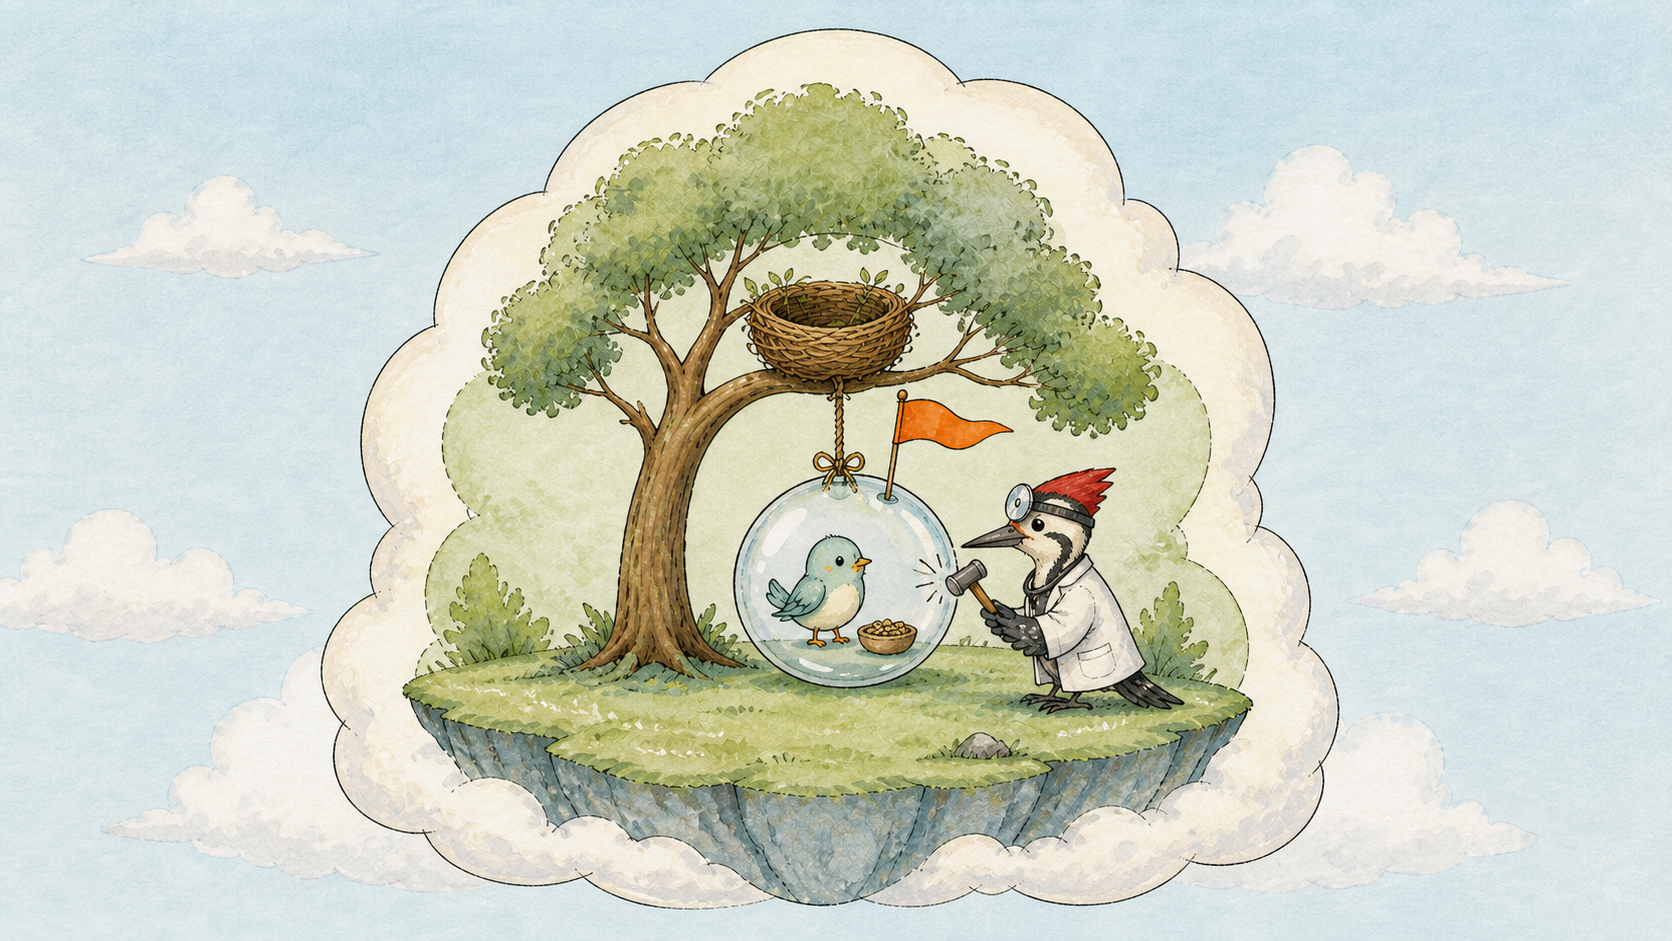
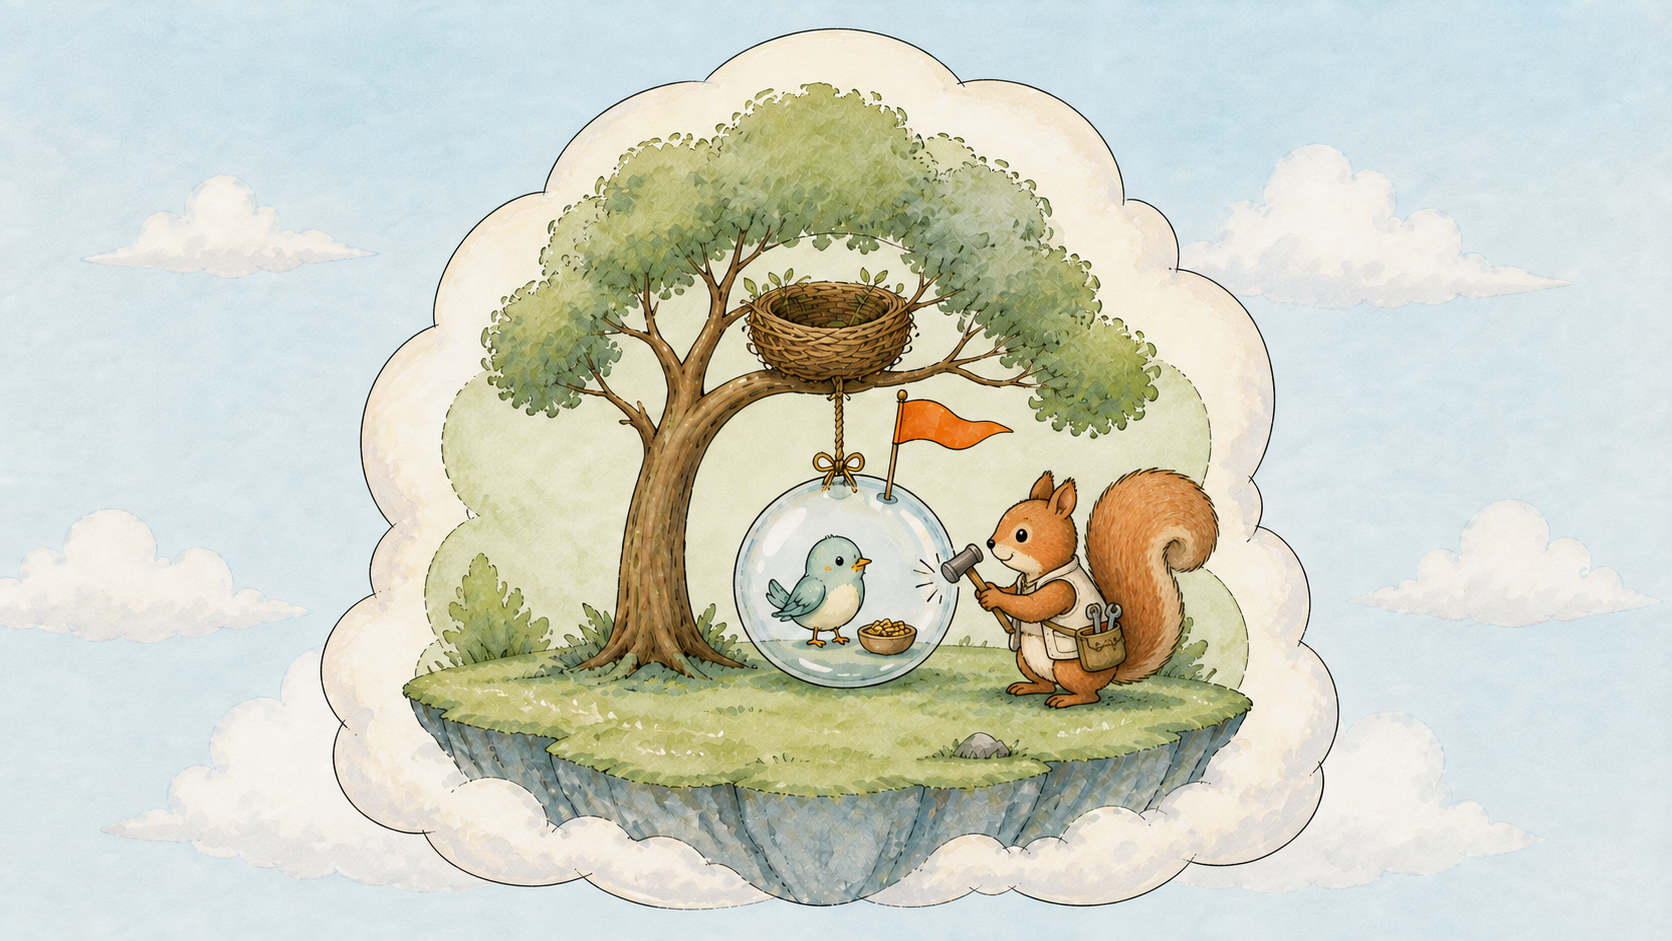
加油加油

diff --git a/day-29.md b/day-29.md
@@ -1,13 +1,13 @@
-# Day 29：雲之島全圖，一張圖看完 K8s 怎麼運作
+# Day 29： K8s Cluster 雲之島全圖，一張圖看完 K8s 怎麼運作
 
 
-## 痛點
+## Cluster 雲之島的全景大圖
 
 二十八天下來認識了三十幾個角色。
 現在把它們全部放進同一座島，你講得出誰在哪一站嗎？
 
 ![day-29-01](illustrations/day-29-01.png)
-雲之島（Cluster）的全景大圖，所有角色各就各位：左上燈塔村的燈塔櫃台（API Server）、記憶樹（etcd）、選樹官（Scheduler）、巡邏隊長（Controller Manager），島中央的巢樹（Node）與泡泡（Pod），右側的大門地圖看板（Ingress）與圖騰柱（Service），地面上的倉庫（PersistentVolume，PV），樹底下的道路管理員（kube-proxy），五條路線串起全島。
+所有角色各就各位：左上燈塔村的燈塔櫃台（API Server）、記憶樹（etcd）、選樹官（Scheduler）、巡邏隊長（Controller Manager），島中央的巢樹（Node）與泡泡（Pod），右側的大門地圖看板（Ingress）與圖騰柱（Service），地面上的倉庫（PersistentVolume，PV），樹底下的道路管理員（kube-proxy），五條路線串起全島。
 
 
 ## 全島只有五條線
@@ -15,6 +15,7 @@
 ![day-29-diagram](illustrations/day-29-diagram.png)
 
 今天話少一點，讓圖說話。全島只有五條線，每條線都親手做過。
+
 
 **第一條線：下指令**
 
@@ -26,16 +27,16 @@
 
 **第二條線：燈塔村做決定**
 
-巡邏隊長（Controller Manager）一直在比對「記憶樹（etcd）上寫的」跟「島上實際有的」。
+巡邏隊長（Controller Manager）一直在比對「記憶樹 etcd 上寫的」跟「島上實際有的」。
 發現要三顆但只有零顆，它就交代部署管家（Deployment）；部署管家（Deployment）交代貓頭鷹（ReplicaSet）；貓頭鷹（ReplicaSet）登記三顆泡泡（Pod）。
 這三顆泡泡（Pod）此時還沒有家，選樹官（Scheduler）看每棵樹剩多少資源（就是 Day 25 畫的那條 Request 線），挑一棵，把答案寫回櫃台。
 
 **控制面這條線主要是在協調與更新狀態；真正建立容器、掛載儲存和處理封包，則由 kubelet、Runtime、CSI、CNI 與資料平面元件執行。**
 
-**第三條線：巢樹（Node）執行**
+**第三條線：樹節點（Node）執行**
 
 每棵樹上的管家松鼠（kubelet）盯著櫃台看有沒有自己這棵樹的活。
-看到了就真的去拉 image、真的把泡泡（Pod）吹出來、真的把小鳥（Container）放進去。啄木鳥開始敲、旗子（Readiness Probe）升起來。
+看到了就真的去拉 image、真的把泡泡（Pod）吹出來、真的把小鳥（Container）放進去。管家松鼠（kubelet）開始執行探針檢查，旗子（Readiness Probe）升起來。
 
 **這是全島唯一真的動手的地方。**
 決定和執行分開，所以燈塔村掛掉時，樹上跑著的服務不會跟著死。
@@ -44,8 +45,8 @@
 
 訪客敲島的大門，地圖看板（Ingress）讀網址、挑一根圖騰柱（Service）。
 柱子（Service）拿著貼紙（Label）去對名單（Endpoints），挑一顆貼著正確貼紙的泡泡（Pod）。
-真正維護轉送規則的是樹底下的道路管理員（kube-proxy），它讓柱子（Service）那個虛擬 IP 的封包前往真實的泡泡（Pod） IP。
-封包穿過泡泡（Pod）的門牌，交給裡面的小鳥（Container）。Day 18 那七站，就是這條線。
+真正維護轉送規則的是樹底下的道路管理員（kube-proxy），它讓柱子（Service）那個虛擬 IP 的封包前往真實的泡泡 Pod IP。
+封包穿過 Pod IP，交給裡面的小鳥（Container）。Day 18 那七站，就是這條線。
 
 **第五條線：資料落地**
 
@@ -102,11 +103,11 @@ kubectl get pvc
 
 一條線一個指令，五行就把整座島從頭到尾檢查完。
 
-## 帶走一句話
+## 小結
 
 **K8s 由多個持續調和的迴圈協作。**
 
 ## 參考資源
 
-- [Kubernetes Components](https://kubernetes.io/docs/concepts/architecture/components/)
+- [Kubernetes Components](https://kubernetes.io/docs/concepts/overview/components/)
 - [Service Networking](https://kubernetes.io/docs/concepts/services-networking/)

diff --git a/k8s-series-tasks.md b/k8s-series-tasks.md
@@ -141,7 +141,7 @@
 ### Day 24：存活檢查鈴與小旗子 ── 三種探針
 - **必講**：Liveness（沒回應就重啟）、Readiness（沒準備好就不給流量）、Startup（給慢啟動的服務緩衝時間）；三者最常見的設定錯誤（Liveness 設太敏感造成無限重啟）。
 - **動手**：加上探針，故意讓它失敗看效果。
-- **圖**：啄木鳥敲泡泡、泡泡上有一面旗；亮橘重點放旗子升起與否。
+- **圖**：管家松鼠（kubelet）執行泡泡（Pod）的探針檢查，泡泡上有一面旗；亮橘重點放旗子升起與否。
 
 ### Day 25：資源需求牌與資源上限線 ── Request 與 Limit
 - **必講**：Request 是排程依據（選樹官看這個決定放哪棵樹）、Limit 是上限；CPU 超過會被限速、記憶體超過會被砍；不設會怎樣。
